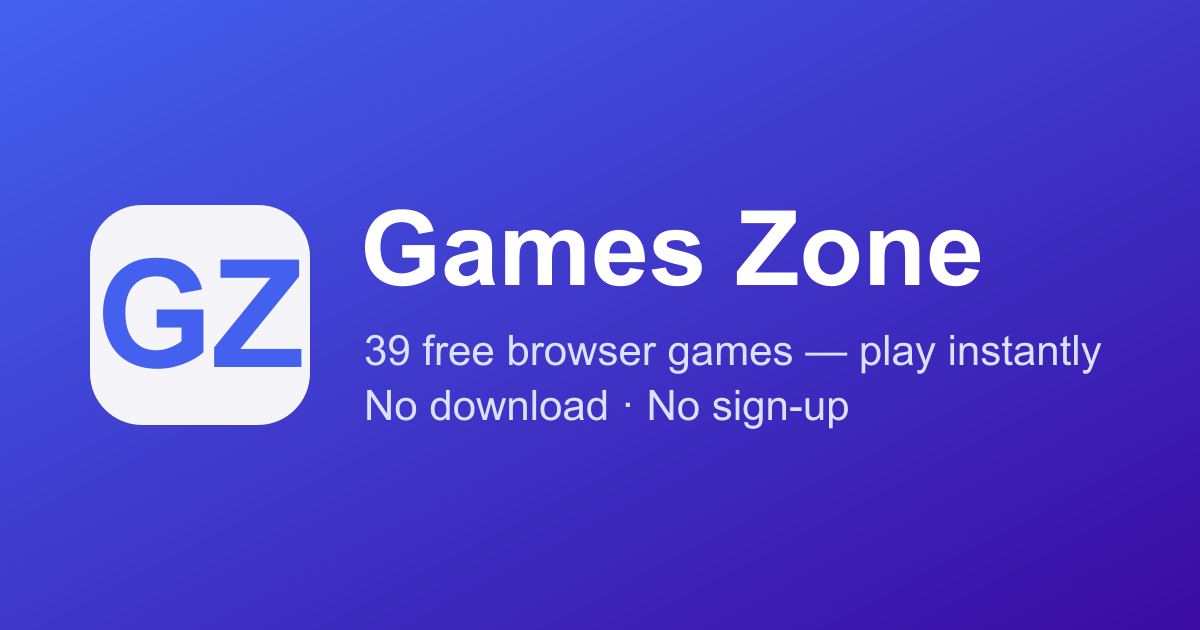
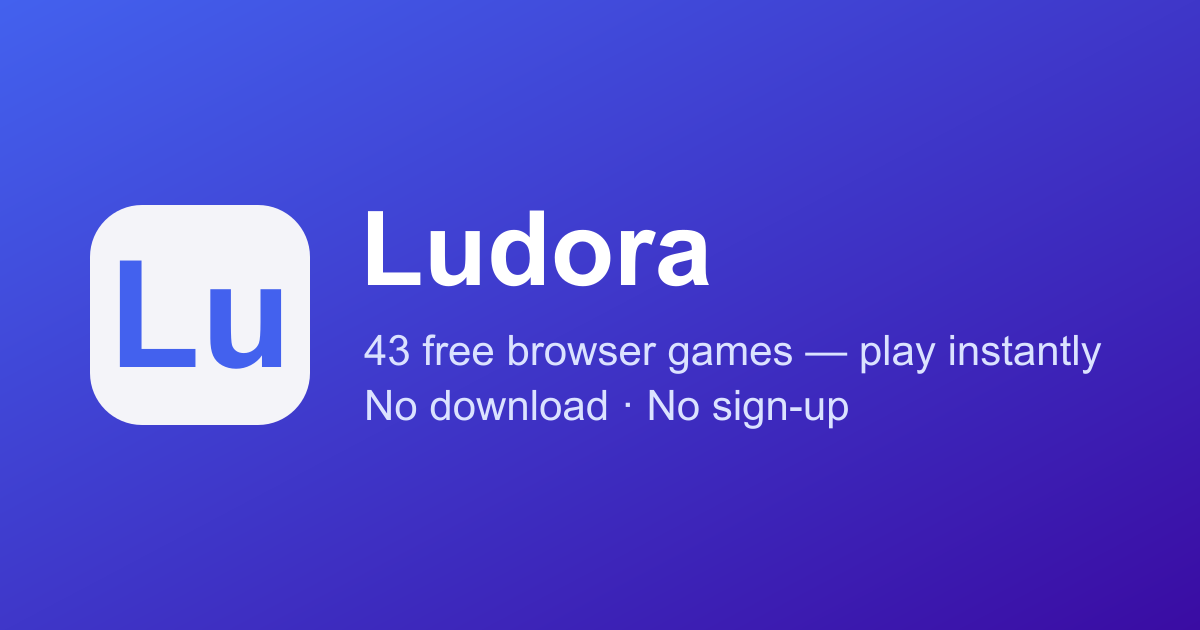
chore(brand): rename the app from Games Zone to Ludora
User-facing and documentation rename across the app:

- Page titles, PWA manifest (name + short_name), og:site_name, sidebar brand
  label, JSON-LD (publisher / breadcrumb / website name), share-link default
  title and static-page copy.
- "GamesZone Points" -> "Ludora Points" everywhere (i18n EN/FR, leaderboard
  and spotlight strings, comments).
- Regenerated the OG share image (Lu monogram + Ludora, game count 39 -> 43).

Deliberately unchanged: the public domain (games-zone.onrender.com in the
sitemap / canonical / render.yaml) stays until the hosting move, and the
wire-level identifiers (the 'gameszone' match scope, the gzPoints/GZP code
symbols and i18n keys) keep their names to avoid needless churn.

Changed region(s): [[0.3083, 0.3317, 0.8325, 0.4524], [0.0617, 0.3921, 0.2775, 0.6032], [0.3083, 0.5127, 0.3392, 0.573]]

diff --git a/src/shared/i18n/i18n.ts b/src/shared/i18n/i18n.ts
@@ -50,8 +50,8 @@ const BASE_CATALOG: Record<Locale, Record<string, string>> = {
     signInToSave: 'Sign in to save',
     scoreSaved: 'Score saved!',
     scoreNotSaved: 'Score not saved: server unreachable.',
-    gzpEarned: '+{n} GamesZone Points',
-    gzpEarnGuest: 'Sign in to earn +{n} GamesZone Points',
+    gzpEarned: '+{n} Ludora Points',
+    gzpEarnGuest: 'Sign in to earn +{n} Ludora Points',
     gzpBonusSpotlight: 'featured game ×{mult}',
     gzpBonusDifficulty: 'difficulty ×{mult}',
     // Versus result overlay (BoardGame).
@@ -297,11 +297,11 @@ const BASE_CATALOG: Record<Locale, Record<string, string>> = {
     challengeButton: 'Challenge a friend',
     challengeShareText: 'Can you beat my score of {score}?',
     challengeCopied: 'Challenge link copied!',
-    // Global cross-game ranking (GamesZone Points).
+    // Global cross-game ranking (Ludora Points).
     globalMyRank: 'You are #{rank} with {score} GZP.',
     globalUnranked: 'Play a game to enter the global ranking.',
     globalPoints: '{score} GZP',
-    leaderboardSubtitle: 'The top GamesZone players across every game.',
+    leaderboardSubtitle: 'The top Ludora players across every game.',
     leaderboardEmpty: 'No ranking yet — play a game to get on the board.',
     leaderboardSearch: 'Search a game',
     leaderboardGameColumn: 'Game',
@@ -402,8 +402,8 @@ const BASE_CATALOG: Record<Locale, Record<string, string>> = {
     bkWorld: 'World',
     hudStreak: 'Streak',
     dailyStreak: 'Daily streak: {n} 🔥',
-    spotlightDaily: 'Game of the day — earn GamesZone Points here today.',
-    spotlightWeekly: 'Game of the week — earn GamesZone Points here this week.',
+    spotlightDaily: 'Game of the day — earn Ludora Points here today.',
+    spotlightWeekly: 'Game of the week — earn Ludora Points here this week.',
     hudStatus: 'Status',
     hudRound: 'Round',
     hudQuestion: 'Question',
@@ -519,8 +519,8 @@ const BASE_CATALOG: Record<Locale, Record<string, string>> = {
     signInToSave: 'Se connecter pour enregistrer',
     scoreSaved: 'Score enregistré !',
     scoreNotSaved: 'Score non sauvegardé : serveur injoignable.',
-    gzpEarned: '+{n} points GamesZone',
-    gzpEarnGuest: 'Connecte-toi pour gagner +{n} points GamesZone',
+    gzpEarned: '+{n} points Ludora',
+    gzpEarnGuest: 'Connecte-toi pour gagner +{n} points Ludora',
     gzpBonusSpotlight: 'jeu vedette ×{mult}',
     gzpBonusDifficulty: 'difficulté ×{mult}',
     // Overlay de résultat versus (BoardGame).
@@ -768,7 +768,7 @@ const BASE_CATALOG: Record<Locale, Record<string, string>> = {
     globalMyRank: 'Tu es #{rank} avec {score} GZP.',
     globalUnranked: 'Joue une partie pour entrer au classement mondial.',
     globalPoints: '{score} GZP',
-    leaderboardSubtitle: 'Les meilleurs joueurs GamesZone, tous jeux confondus.',
+    leaderboardSubtitle: 'Les meilleurs joueurs Ludora, tous jeux confondus.',
     leaderboardEmpty: 'Pas encore de classement — joue une partie pour y entrer.',
     leaderboardSearch: 'Chercher un jeu',
     leaderboardGameColumn: 'Jeu',
@@ -865,8 +865,8 @@ const BASE_CATALOG: Record<Locale, Record<string, string>> = {
     bkWorld: 'Monde',
     hudStreak: 'Série',
     dailyStreak: 'Série quotidienne : {n} 🔥',
-    spotlightDaily: 'Jeu du jour — gagne des points GamesZone ici aujourd’hui.',
-    spotlightWeekly: 'Jeu de la semaine — gagne des points GamesZone ici cette semaine.',
+    spotlightDaily: 'Jeu du jour — gagne des points Ludora ici aujourd’hui.',
+    spotlightWeekly: 'Jeu de la semaine — gagne des points Ludora ici cette semaine.',
     hudStatus: 'État',
     hudRound: 'Manche',
     hudQuestion: 'Question',

diff --git a/src/shared/engine/GameEngine.ts b/src/shared/engine/GameEngine.ts
@@ -478,7 +478,7 @@ export abstract class GameEngine {
       getCachedFriendCode()
     );
     const shareData = {
-      title: 'Games Zone',
+      title: 'Ludora',
       text: t('challengeShareText', { score: this.state.score }),
       url,
     };
@@ -630,7 +630,7 @@ export abstract class GameEngine {
 
   /**
    * Records a run under `username`, server-authoritative: the run is written to
-   * its leaderboard(s) and the global GamesZone Points total through Nakama. No
+   * its leaderboard(s) and the global Ludora Points total through Nakama. No
    * score is written to localStorage. If the backend is unreachable the run is
    * lost and the player is warned (offline scores are not queued).
    */
@@ -664,7 +664,7 @@ export abstract class GameEngine {
   }
 
   /**
-   * The GamesZone Points a run earns, broken into its base value and the two
+   * The Ludora Points a run earns, broken into its base value and the two
    * factors that scale it — difficulty and the spotlight gate (see
    * `src/shared/score/multipliers.ts`). GZP is earned **only** on a spotlit game,
    * so `spotlight` (hence `total`) is 0 for a game that isn't the day's daily pick
@@ -690,7 +690,7 @@ export abstract class GameEngine {
   }
 
   /**
-   * The GamesZone Points breakdown shown under the game-over body (signed-in runs
+   * The Ludora Points breakdown shown under the game-over body (signed-in runs
    * only — a guest earns nothing until they sign in). Names each active bonus so
    * the player sees *why* a run was worth more: the retention hook made visible.
    */
@@ -705,7 +705,7 @@ export abstract class GameEngine {
   }
 
   /**
-   * The GamesZone Points a guest *would* earn — shown under the game-over body as
+   * The Ludora Points a guest *would* earn — shown under the game-over body as
    * an incentive next to the "Sign in to save" button (guests earn nothing until
    * they sign in). Turns the abstract prompt into a concrete reward.
    */
@@ -752,7 +752,7 @@ export abstract class GameEngine {
   }
 
   /**
-   * The score used for ranking — the leaderboard record, GamesZone Points and
+   * The score used for ranking — the leaderboard record, Ludora Points and
    * the "best" HUD stat. Defaults to the live game score; level games rank on
    * the level reached instead (so every game contributes coherently and a level
    * game's in-game score, if any, stays a display-only value). Override for a

diff --git a/src/privacy/index.html b/src/privacy/index.html
@@ -1,6 +1,6 @@
 <!doctype html>
 <html lang="en">
-  {{> head title="Privacy Policy — Games Zone" css="/css/legal.css"}}
+  {{> head title="Privacy Policy — Ludora" css="/css/legal.css"}}
   <body class="app-body">
     {{> game-chrome}}
     <main class="legal-content">
@@ -13,8 +13,8 @@
       </div>
 
       <p class="legal-text">
-        Games Zone is a personal, non-commercial project. This page explains what data is collected
-        when you use the site.
+        Ludora is a personal, non-commercial project. This page explains what data is collected when
+        you use the site.
       </p>
 
       <h2 class="legal-section">Authentication data (localStorage)</h2>
@@ -39,7 +39,7 @@
       <p class="legal-text">
         When you are signed in, your scores are recorded on our server (Oracle Cloud, Marseille,
         France) under your display name: on each game's own online leaderboard and on the cross-game
-        <strong>GamesZone Points</strong> ranking. These leaderboards are
+        <strong>Ludora Points</strong> ranking. These leaderboards are
         <strong>publicly visible</strong> to other players, who see your display name and score.
         Level progress is stored on the server too and cached locally as a UI preference only.
       </p>

diff --git a/src/shared/net/nakama.ts b/src/shared/net/nakama.ts
@@ -301,7 +301,7 @@ export async function listLeaderboardScores(
   });
 }
 
-/** Id of the cross-game "GamesZone Points" leaderboard (incremental, desc). */
+/** Id of the cross-game "Ludora Points" leaderboard (incremental, desc). */
 export const GLOBAL_LEADERBOARD = 'global';
 
 /** An entry of the global cross-game ranking. */
@@ -338,7 +338,7 @@ function toGlobalEntry(
 }
 
 /**
- * Adds GamesZone Points to the player's global total (incremental leaderboard).
+ * Adds Ludora Points to the player's global total (incremental leaderboard).
  * Rejects if the backend is unreachable or the 'global' board isn't created yet,
  * so callers should swallow errors (best-effort, like the per-game submit).
  */
@@ -681,7 +681,7 @@ export async function removeFriend(code: string): Promise<void> {
 
 /**
 /**
- * GamesZone Points per user id for the given owners (their global-leaderboard
+ * Ludora Points per user id for the given owners (their global-leaderboard
  * totals), so the friends list can show each friend's GZP inline. Best-effort:
  * returns an empty map on any backend issue. Owners with no recorded run are
  * simply absent from the map.
@@ -705,7 +705,7 @@ export async function getFriendScores(userIds: string[]): Promise<Map<string, nu
 }
 
 /**
- * The friends-only GamesZone Points ranking: the current player plus their mutual
+ * The friends-only Ludora Points ranking: the current player plus their mutual
  * friends, sorted by GZP (desc) and freshly ranked among themselves. Reads the
  * same global leaderboard as {@link listGlobalRanking} but filtered to the friend
  * graph's owner ids. Returns [] on any error/backend issue.

diff --git a/vite.config.ts b/vite.config.ts
@@ -933,7 +933,7 @@ export default defineConfig({
         const blurb = game ? CATALOG.en[`seo_${game.key}`] : undefined;
         const metaDescription = game
           ? (blurb ?? `Play ${game.label} free in your browser — no download, no sign-up.`)
-          : 'Games Zone: free browser games you can play instantly — no download, no sign-up.';
+          : 'Ludora: free browser games you can play instantly — no download, no sign-up.';
         const ldJson = JSON.stringify(
           game
             ? [
@@ -948,13 +948,13 @@ export default defineConfig({
                   applicationCategory: 'GameApplication',
                   operatingSystem: 'Any',
                   offers: { '@type': 'Offer', price: '0', priceCurrency: 'USD' },
-                  publisher: { '@type': 'Organization', name: 'Games Zone', url: SITE },
+                  publisher: { '@type': 'Organization', name: 'Ludora', url: SITE },
                 },
                 {
                   '@context': 'https://schema.org',
                   '@type': 'BreadcrumbList',
                   itemListElement: [
-                    { '@type': 'ListItem', position: 1, name: 'Games Zone', item: `${SITE}/` },
+                    { '@type': 'ListItem', position: 1, name: 'Ludora', item: `${SITE}/` },
                     { '@type': 'ListItem', position: 2, name: game.label, item: canonical },
                   ],
                 },
@@ -962,7 +962,7 @@ export default defineConfig({
             : {
                 '@context': 'https://schema.org',
                 '@type': 'WebSite',
-                name: 'Games Zone',
+                name: 'Ludora',
                 url: SITE,
                 description: metaDescription,
               }

diff --git a/src/leaderboard/index.html b/src/leaderboard/index.html
@@ -1,7 +1,6 @@
 <!doctype html>
 <html lang="en">
-  {{> head title="Leaderboard — Games Zone" css="/css/leaderboard.css"
-  script="./leaderboard-main.ts"}}
+  {{> head title="Leaderboard — Ludora" css="/css/leaderboard.css" script="./leaderboard-main.ts"}}
   <body class="app-body">
     {{> game-chrome}}
     <main class="legal-content leaderboard-content">
@@ -9,7 +8,7 @@
         <div>
           <h1 class="legal-title" data-i18n="leaderboard">Leaderboard</h1>
           <p class="leaderboard-subtitle" data-i18n="leaderboardSubtitle">
-            The top GamesZone players across every game.
+            The top Ludora players across every game.
           </p>
         </div>
         <a class="btn btn--secondary legal-back" href="/">

diff --git a/src/friends/friends-main.ts b/src/friends/friends-main.ts
@@ -49,7 +49,7 @@ function friendRow(friend: Friend, statusText: string, ...actions: HTMLElement[]
   return li;
 }
 
-/** A small "1,234 GZP" badge showing a friend's GamesZone Points. */
+/** A small "1,234 GZP" badge showing a friend's Ludora Points. */
 function gzpBadge(points: number): HTMLSpanElement {
   const span = document.createElement('span');
   span.className = 'friend-gzp';
@@ -80,7 +80,7 @@ async function refreshFriends(): Promise<void> {
   const online = mutual.filter((f) => f.online);
   const offline = mutual.filter((f) => !f.online);
 
-  // Each mutual friend's GamesZone Points, shown inline (best-effort).
+  // Each mutual friend's Ludora Points, shown inline (best-effort).
   const scores = await getFriendScores(mutual.map((f) => f.userId));
   const mutualActions = (f: Friend): HTMLElement[] => {
     const gzp = scores.get(f.userId);

diff --git a/src/leaderboard/leaderboard-main.ts b/src/leaderboard/leaderboard-main.ts
@@ -1,8 +1,8 @@
 /**
  * Leaderboard with three direct tabs:
  *  - Personal: the player's best server-backed score in every score-enabled game.
- *  - Friends: GamesZone Points scoped to the friend graph.
- *  - Global: the public GamesZone Points ranking.
+ *  - Friends: Ludora Points scoped to the friend graph.
+ *  - Global: the public Ludora Points ranking.
  */
 import { applyTranslations, t } from '../shared/i18n/i18n.js';
 import { requireGoogleUser } from '../shared/net/authGuard.js';

diff --git a/src/shared/score/multipliers.ts b/src/shared/score/multipliers.ts
@@ -1,5 +1,5 @@
 /**
- * GamesZone Points multipliers — the single tuning hub for "this run is worth
+ * Ludora Points multipliers — the single tuning hub for "this run is worth
  * more". Two factors compose here, and they multiply together:
  *
  *   1. **Difficulty** — a harder variant earns more (easy ×1, medium ×1.5, hard ×2).
@@ -27,7 +27,7 @@ export const DIFFICULTY_MULT: Record<Tier, number> = { easy: 1, medium: 1.5, har
 
 /**
  * GZP multiplier by spotlight status. `none` is 0 on purpose: a game that isn't
- * spotlit today or this week earns no GamesZone Points at all (the season gate).
+ * spotlit today or this week earns no Ludora Points at all (the season gate).
  * The daily pick is worth more than the seven weekly picks.
  */
 export const SPOTLIGHT_MULT = { daily: 2, weekly: 1, none: 0 } as const;

diff --git a/src/shared/score/pendingScore.ts b/src/shared/score/pendingScore.ts
@@ -3,7 +3,7 @@
  * run and chooses to save, we can't record it yet (recording requires a Google
  * account). We stash the run here, trigger sign-in (which reloads the page), and
  * on the next load — now signed in — {@link flushPendingScore} records it under
- * the Google name: to its online leaderboard(s) and the global GamesZone Points
+ * the Google name: to its online leaderboard(s) and the global Ludora Points
  * total.
  */
 import { getCurrentUser, submitGlobalScore, recordRun } from '../net/nakama.js';
@@ -18,7 +18,7 @@ interface PendingScore {
   score: number;
   /** Game-specific extras (e.g. Typing's wpm/lpm). */
   extra?: Record<string, number>;
-  /** GamesZone Points this run is worth. */
+  /** Ludora Points this run is worth. */
   gzp: number;
 }
 

diff --git a/public/css/components/animations.css b/public/css/components/animations.css
@@ -118,7 +118,7 @@
   }
 }
 
-/* Earned GamesZone Points: a brief pop so the reward catches the eye. */
+/* Earned Ludora Points: a brief pop so the reward catches the eye. */
 @keyframes gzpPop {
   0% {
     transform: scale(0.8);

diff --git a/public/css/components/gameover.css b/public/css/components/gameover.css
@@ -56,7 +56,7 @@
   justify-content: center;
 }
 
-/* GamesZone Points earned (signed-in runs) — makes the difficulty / weekly
+/* Ludora Points earned (signed-in runs) — makes the difficulty / weekly
    bonus visible so the player sees why a run was worth more. */
 .game-over-footer {
   display: flex;